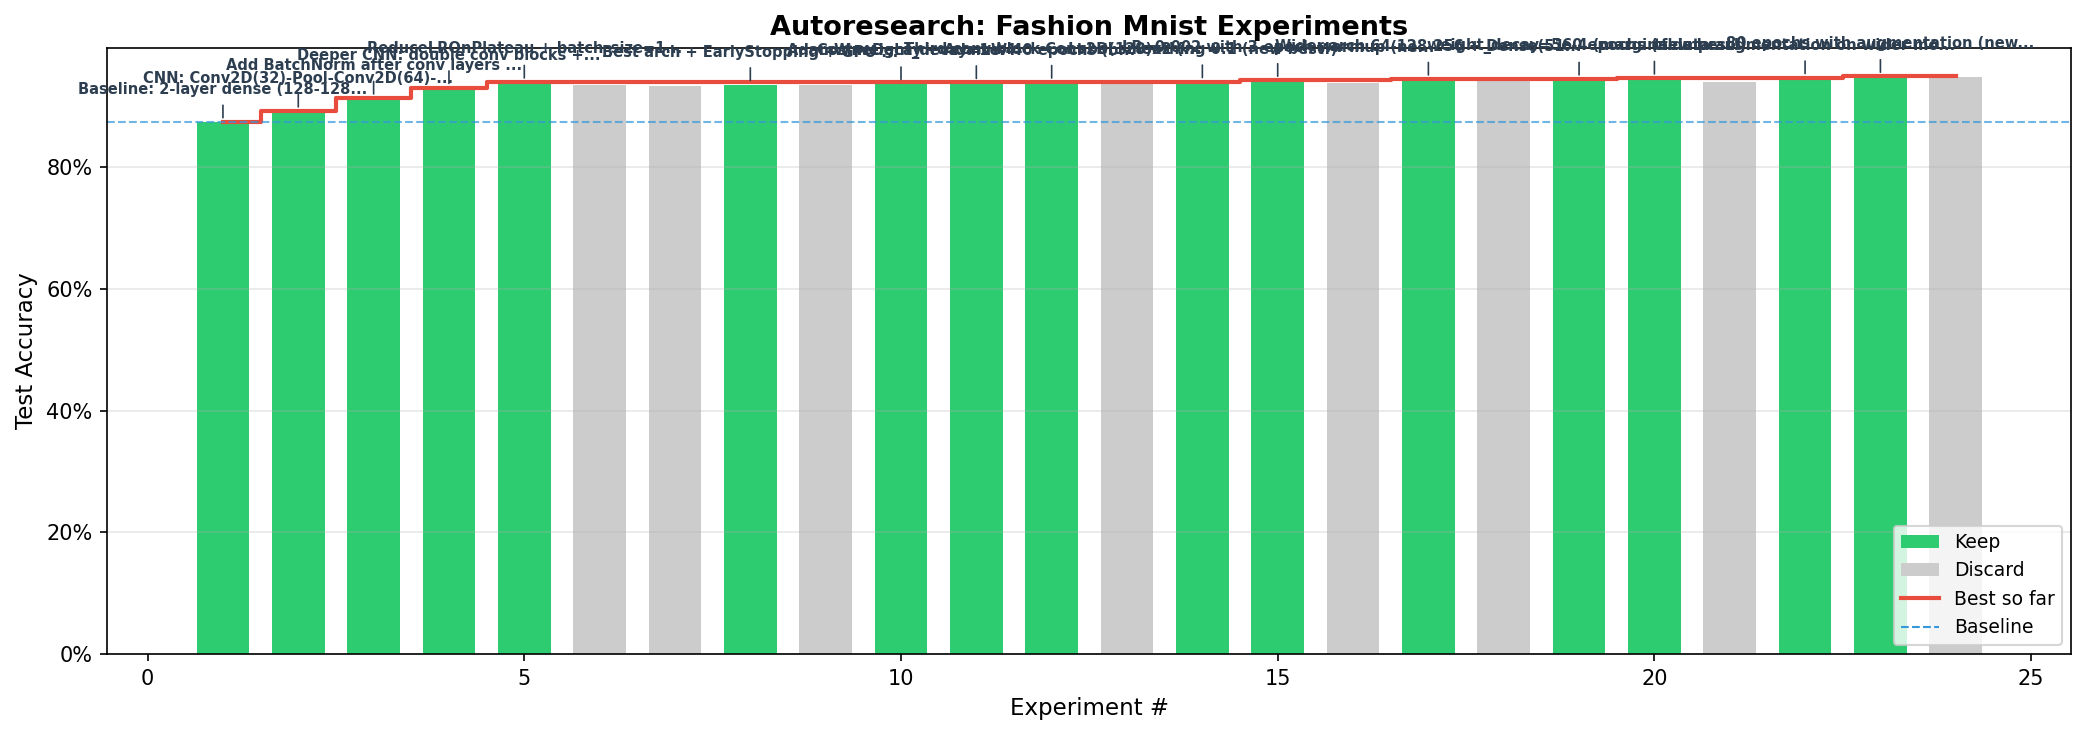
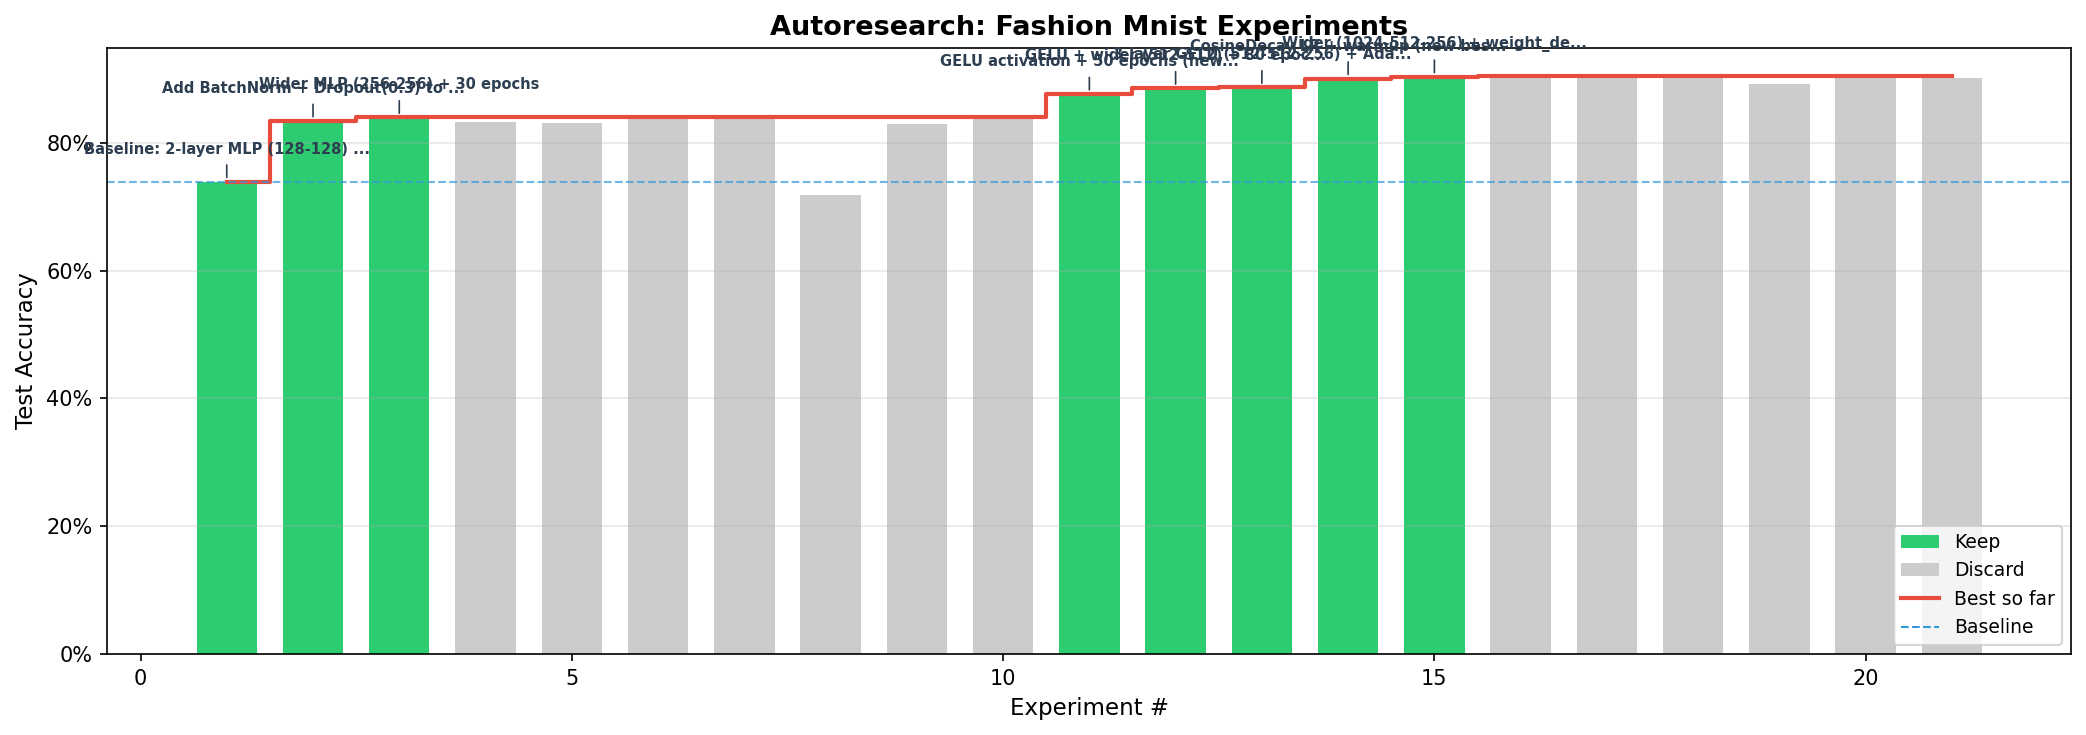
Update README and chart for MLP-only experiments (90.34% best)

diff --git a/2_fashion-mnist/README.md b/2_fashion-mnist/README.md
@@ -1,4 +1,4 @@
-# Fashion-MNIST Image Classifier
+# Fashion-MNIST Image Classifier (MLP Only)
 
 10-class image classification on [Fashion-MNIST](https://github.com/zalandoresearch/fashion-mnist) (70,000 grayscale images, 28x28). Part of MIT 15.773 Hands-On Deep Learning (Spring 2024).
 
@@ -6,10 +6,10 @@
 
 | | Accuracy | Architecture |
 |---|---|---|
-| **Baseline** | 87.46% | Flatten → Dense(128) x2 → Dense(10) |
-| **Best** | **94.94%** | 3 Conv blocks (64-128-256) → Dense(512) → Dense(10) |
+| **Baseline** | 73.93% | Flatten → Dense(128) x2 → Dense(10) |
+| **Best** | **90.34%** | Flatten → Dense(1024) → Dense(512) → Dense(256) → Dense(10) |
 
-**25 experiments** were run to reach the best result.
+**20 experiments** were run (MLP only, no CNN).
 
 ![Experiment results](experiments.png)
 
@@ -17,36 +17,35 @@
 
 - **Images**: 60,000 train / 10,000 test, 28x28 grayscale, normalized to [0, 1]
 - **Classes**: T-shirt/top, Trouser, Pullover, Dress, Coat, Sandal, Shirt, Sneaker, Bag, Ankle boot
-- **Augmentation**: Random horizontal flip + reflect padding with random crop (via tf.data)
-- **Validation**: 20% of training data (no augmentation)
+- **Validation**: 20% of training data
 
 ## Best model
 
 ```
-Conv2D(64)x2 + BatchNorm + MaxPool + Dropout(0.25)
-Conv2D(128)x2 + BatchNorm + MaxPool + Dropout(0.25)
-Conv2D(256)x2 + BatchNorm + MaxPool + Dropout(0.25)
-Dense(512) + BatchNorm + Dropout(0.5)
+Flatten(28x28)
+Dense(1024, gelu) + BatchNorm + Dropout(0.4)
+Dense(512, gelu) + BatchNorm + Dropout(0.3)
+Dense(256, gelu) + BatchNorm + Dropout(0.3)
 Dense(10, softmax)
 ```
 
-- **Optimizer**: AdamW, cosine decay LR schedule (initial 0.002, 3-step warmup), weight decay 5e-4
+- **Optimizer**: AdamW, cosine decay LR schedule (initial 1e-3, 3-epoch warmup), weight decay 5e-4
 - **Loss**: Categorical crossentropy with label smoothing 0.1
 - **Epochs**: 80, batch size 128
-- **Parameters**: 2,335,178
+- **Parameters**: 1,469,706
 
 ## Key findings
 
 **What improved accuracy:**
-- Switching from dense-only to CNN (87.46% → 89.24%)
-- Adding BatchNorm after conv layers (89.24% → 91.37%)
-- Deeper architecture with double conv blocks (91.37% → 93.09%)
-- ReduceLROnPlateau + larger batch size (93.09% → 94.00%)
-- Wider conv filters (64-128-256) + Dense(512) (94.00% → 94.49%)
-- Weight decay + more epochs (94.49% → 94.66%)
-- tf.data augmentation (flip + crop) at 80 epochs (94.66% → 94.94%)
+- GELU activation (single biggest win: 83.98% → 87.64%)
+- CosineDecay LR schedule with warmup (88.68% → 90.05%)
+- Wider layers (256 → 512 → 1024 first layer)
+- BatchNorm + Dropout (73.93% → 83.43%)
+- AdamW with weight decay + label smoothing
 
 **What didn't help:**
-- Higher learning rates without scheduling
-- 100 epochs (diminishing returns, risk of overfitting)
-- Label smoothing alone (marginal, kept as part of final config)
+- Data augmentation (hurts MLP — can't learn spatial invariance)
+- MLP-Mixer with patch mixing (underperformed simple wide MLP)
+- Skip/residual connections
+- SGD+momentum (worse than Adam for this MLP)
+- Very deep or very wide networks (diminishing returns)
